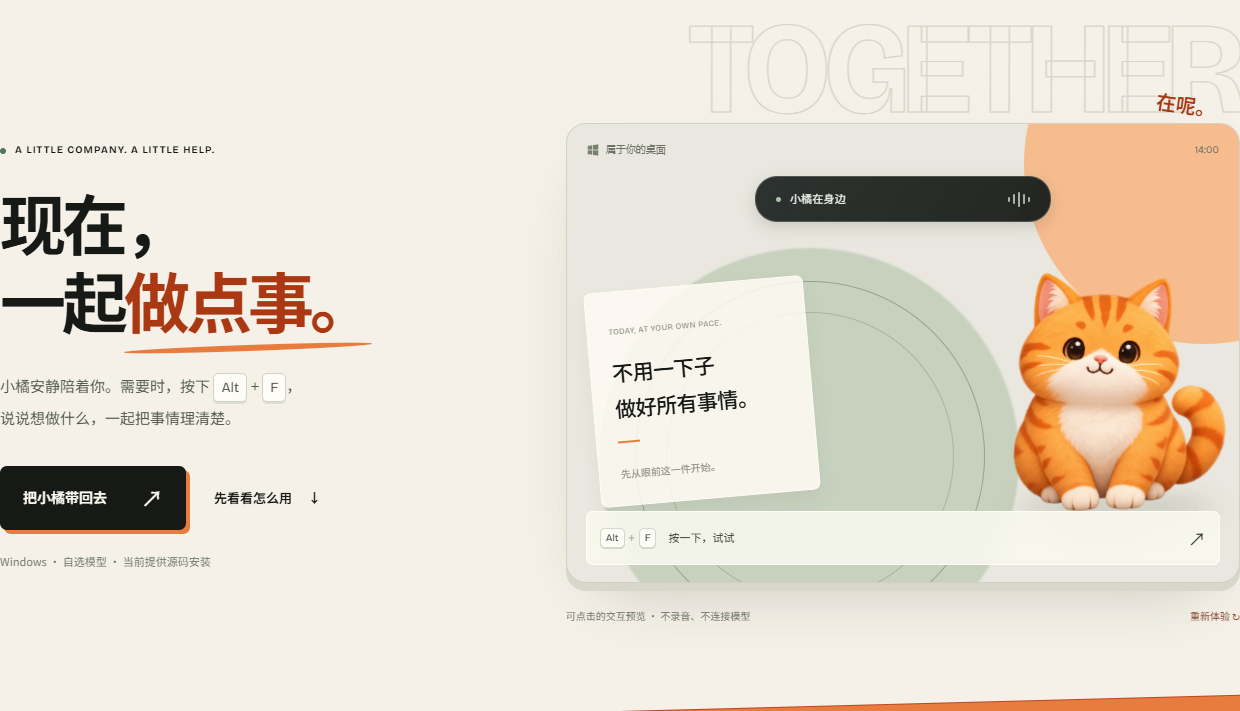
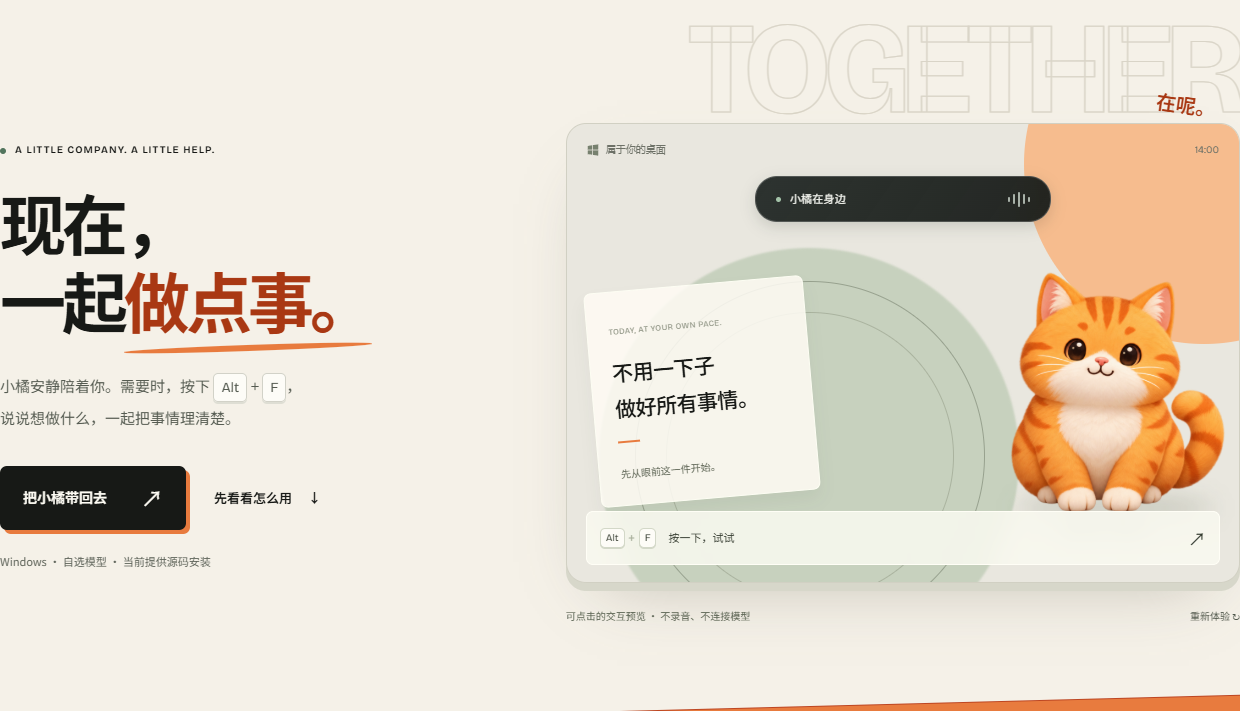
fix(site): improve supporting text readability

Changed region(s): [[0.8274, 0.3713, 1.0, 0.7426], [0.7968, 0.6188, 0.8274, 0.6807]]

diff --git a/docs/index.html b/docs/index.html
@@ -392,7 +392,7 @@
         </div>
         <div class="capability-list">
           <article>
-            <span class="capability-index">01</span>
+            <span class="capability-index" aria-hidden="true">01</span>
             <div>
               <h3>语音，直接说就好。</h3>
               <p>
@@ -405,7 +405,7 @@
             </div>
           </article>
           <article>
-            <span class="capability-index">02</span>
+            <span class="capability-index" aria-hidden="true">02</span>
             <div>
               <h3>拖进文件，先问你怎么读。</h3>
               <p>
@@ -417,7 +417,7 @@
             </div>
           </article>
           <article>
-            <span class="capability-index">03</span>
+            <span class="capability-index" aria-hidden="true">03</span>
             <div>
               <h3>模型，由你来选。</h3>
               <p>
@@ -430,7 +430,7 @@
             </div>
           </article>
           <article>
-            <span class="capability-index">04</span>
+            <span class="capability-index" aria-hidden="true">04</span>
             <div>
               <h3>行动之前，边界清楚。</h3>
               <p>

diff --git a/docs/product.css b/docs/product.css
@@ -323,7 +323,7 @@ pre {
 }
 .hero-note {
   font-size: 11px;
-  color: #777c72;
+  color: #61665c;
   margin-top: 22px;
 }
 .hero-visual {
@@ -641,7 +641,7 @@ pre {
 }
 .desktop-note small {
   font-size: 10px;
-  color: #8a8e80;
+  color: #626959;
 }
 .pet-spot {
   position: absolute;
@@ -734,7 +734,7 @@ pre {
   align-items: center;
   justify-content: space-between;
   font-size: 10px;
-  color: #72786b;
+  color: #5e6756;
   gap: 8px;
   margin-top: 18px;
   transform: rotate(1.5deg);
@@ -890,7 +890,7 @@ pre {
   display: flex;
   justify-content: space-between;
   font-size: 10px;
-  color: #607154;
+  color: #4d603f;
   padding-top: 25px;
   gap: 12px;
 }
@@ -1148,7 +1148,7 @@ pre {
 }
 .voice-options .voice-secondary {
   font-size: 11px;
-  color: #7c8670;
+  color: #5b684f;
   margin-top: 17px;
 }
 .voice-options code {
@@ -1206,7 +1206,7 @@ pre {
 .faq-list details p {
   font-size: 12px;
   line-height: 2;
-  color: #667b55;
+  color: #536746;
   padding: 0 18px 22px 0;
 }
 .closing-section {
